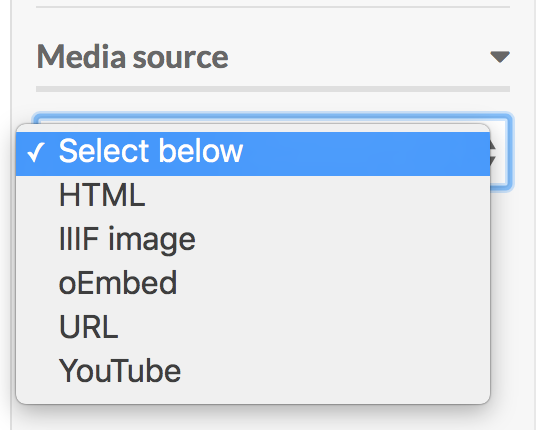
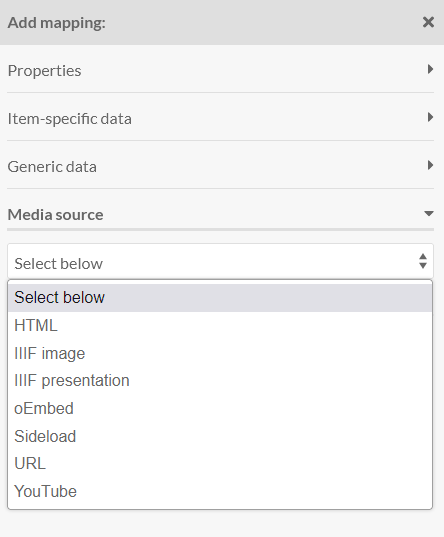
CSV Import

diff --git a/docs/modules/csvimport.md b/docs/modules/csvimport.md
@@ -1,27 +1,27 @@
 # CSV Import
 
-The [CSV Import module](https://omeka.org/s/modules/CSVImport){target=_blank} allows you to import items, item sets, media, and users into your Omeka S install from a CSV (comma-separated values), TSV (tab-separated values), or ODF (open document format) file. This module is only available to [Global Administrator and Supervisor users](../admin/users.md).
+The [CSV Import module](https://omeka.org/s/modules/CSVImport){target=_blank} allows you to import items, item sets, media, and users into your Omeka S install from a CSV (comma-separated values), TSV (tab-separated values), or ODS (OpenDocument Spreadsheet) file. This module is only available to [Global Administrator and Supervisor users](../admin/users.md).
+
+CSV Import requires your Omeka S installation to [have PHP working in order to run background import jobs](..install.md#test-and-set-the-php-path). Before using CSV Import, you should confirm that PHP is being recognized from the [System Information page](../admin-dashboard.md#system-information). 
 
 ## Preparing your CSV file
 
-Most spreadsheet editors (including Microsoft Excel, Google Sheets, and Apple Numbers) can export to CSV format. 
+Most spreadsheet editors (including Microsoft Excel, Google Sheets, and Apple Numbers) can export to CSV, TSV, or ODS format. 
 
 !!! note
 	CSV files for import **must be encoded in UTF-8**, so when exporting or saving a new document, be sure to check that the encoding is UTF-8.
 
-Most import options rely on you only importing one type of data: a list of items, a list of item sets, a list of media, etc. There is the option for a [Mixed resource import](#mixed-resource-import), requiring one column that identifies the type of each row.
+Most CSV Import options rely on you only importing one type of data: a list of items, a list of item sets, a list of media, etc. There is the option for a [mixed-resource import](#mixed-resource-import), requiring one column that identifies the type of each row.
 
-If the spreadsheet is already created, take a moment to think about which columns you want to match to which [vocabulary properties](../content/vocabularies.md). Your CSV file **must have a header row** in order for the module to process it correctly, so you may need to add a row at the top with column names.
+If the spreadsheet is already created, consider which columns you want to match to which [vocabulary properties](../content/vocabularies.md). Your CSV file **must have a header row** in order for the module to process it correctly, so you may need to add a row at the top with column names.
 
-If you have multiple inputs for a single property, you can separate them with a secondary **multivalue separator**. For example, a work with multiple authors (E.B. White and William Strunk Jr.) with the column for Creator containing "E.B. White;William Strunk Jr" has a semicolon (;) as the multivalue separator. When imported into Omeka S, each of these would appear as a separate entry in the property (Creator: "E.B. White" and Creator: "William Strunk Jr."). Note that the import will be the same whether you leave a space after your separator (as in "E.B. White; William Strunk Jr") or not.
+If you have multiple inputs for a single property, you can separate them with a secondary **multivalue separator**. For example, a work with multiple authors (E.B. White and William Strunk Jr.) with the column for Creator containing "E.B. White;William Strunk Jr" has a semicolon (;) as the multivalue separator. When imported into Omeka S, each of these would appear as a separate entry in the property (Creator: "E.B. White" and Creator: "William Strunk Jr."). Note that the import will be the same whether you leave a space after your separator (as in "E.B. White; William Strunk Jr") or not. 
 
 ### Column names
 
 You can manually map each column to its corresponding property, and you are required to manually map non-metadata columns, such as the file URL for upload. The module will automatically map metadata columns by the names provided in the header row, if they conform to the property terms of your installation's [vocabularies](../content/vocabularies.md) in the format `prefix:property`. For example, a CSV file with a column header "dcterms:title" would automap to the Dublin Core Title property when the CSV is loaded for mapping. You can modify these automapped columns before import.
 
-To find the terms you should use for your column headers, go to the Vocabularies tab from the admin dashboard. Click on the number of properties for the vocabulary you want to use (Dublin Core in the image below).
-
-![Red arrow points to the properties link for Dublin Core](../modules/modulesfiles/csv_automap1.png)
+To find the terms you should use for your column headers, go to the Vocabularies tab from the admin dashboard. Click on the number of properties for the vocabulary you want to use (for example, Dublin Core in the image below).
 
 In the table of vocabulary properties, there is a column for **Term**. Use the Term as the column heading for the property you want to automap in CSV Import. For example, "dcterms:abstract" would automap to the Dublin Core property "Abstract" and "foaf:firstName" would automap to the Friend of a Friend property "firstName".
 
@@ -35,10 +35,10 @@ If you have plans to batch-import metadata or properties that come with a module
 
 ## Initial import settings
 
-Start an import by clicking on the CSV Import tab on the left-hand navigation. This will open the initial "Import Settings" page.
+Start an import by clicking on the CSV Import tab on the left-hand navigation. This will open the initial "Import Settings" page. For most spreadsheets directly exported from a software program into the correct format, these settings can be left on their defaults.
 
-- For the Spreadsheet option, use the "Choose File" button to select the file from your computer.
-- From the **CSV column delimiter** dropdown, choose from the following options (this should match the formatting of your file) that separates different values in a row:
+- Use the "Choose File" button to select a spreadsheet from your computer.
+- From the **CSV column delimiter** dropdown, choose from the following options (this should match the formatting of your file) the character that separates different values in a row:
 	- comma (default)
 	- semi-colon
 	- colon
@@ -50,18 +50,18 @@ Start an import by clicking on the CSV Import tab on the left-hand navigation. T
 - From the **CSV column enclosure** dropdown, choose the option that encloses long text in your file, if applicable:
 	- double quote (default)
 	- quote
-	- hash (#).
+	- hash (`#`).
 
 - From the **Import type** dropdown, select what you are importing:
-	- Item Sets
 	- Items
-	- Media (must relate to already existing Items)
-	- Mixed resources (spreadsheet can include Item Sets, Items, and Media)
+	- Item sets
+	- Media (a column matching Media to already existing Items is required)
+	- Mixed resources (spreadsheet can include Item sets, Items, and Media; a column identifying the type of each row is required)
 	- Users.
 
-- Check the box to **Automap with simple labels**. This will automap not only specially formatted column headings but also column headings that match existing vocabulary property labels.
+- Check the box to **Automap with simple labels**. This will automatically map both specially formatted column headings (in `prefix:property`) and any column headings that match existing vocabulary property labels (`property`).
 
-- **Comments** will appear on the "Past Imports" page; you may find this useful to make a note about what is being imported and any settings you have chosen on this page.
+- **Comments** will appear on the "Past Imports" page; you may find this useful to make a note about what is being imported and any settings you have chosen on this page, for example if you are working in batches or may wish to undo an import later.
 
 ![Import settings as described, no entries](../modules/modulesfiles/csvimport_settings.png)
 
@@ -70,7 +70,7 @@ Click the "Next" button to continue with the import process.
 ## Import items
 To import items, select "Items" under the "Import type" on the first page.
 
-When you click next, the page will load with the following tabs:
+When you click "Next", the page will load with the following tabs:
 
 ### Map to Omeka S data
 This tab displays a table with the columns from your spreadsheet as rows. Each row displays:
@@ -79,24 +79,23 @@ This tab displays a table with the columns from your spreadsheet as rows. Each r
 - The column header from the spreadsheet
 - A plus symbol button for adding or modifying a mapping
 - A wrench symbol button for spreadsheet column options
-- A trash can to delete mappings
-- A column to show options selected.
+- A column displaying properties mapped, either automatically or manually
+- A trash can to delete existing mappings
+- A column to show the particular options selected (such as whether to look for multivalue separators, or visibility for that column).
 
-![Mappings for a spreadsheet with ten columns. Some of the columns, such as those named Description and Title have automatically been mapped to Dublin Core properties.](../modules/modulesfiles/csvimport_itemsMap1.png)
+![Mappings for a spreadsheet with ten columns. Some of the columns, such as those named Description and Title, have automatically been mapped to Dublin Core properties.](../modules/modulesfiles/csvimport_itemsMap1.png)
 
 #### Mapping options
 
-To map a column header to a vocabulary property, click on the plus symbol button to the left of the column header. This will open a drawer on the right-hand side of the screen.
-
-![A red arrow points to the plus sign button to the left of the word "title"](../modules/modulesfiles/csvimport_itemsMapButton.png)
+To map a column header to a vocabulary property, click on the plus symbol button. This will open a drawer on the right-hand side of the screen.
 
 The drawer has multiple options for mapping:
 
-**Properties** select a property to map the column data to, from any of the installed vocabularies. Use the Filter field to search the available properties for a specific property.
+**Properties** allows you to select a property to map the column data to, from any of the installed vocabularies. Use the "Filter" field to search for a specific property.
 
-![Properties option open showing all of the installed vocabularies for the Omeka S installation: Dublin Core, Bibliographic Ontology, Friend of a Friend, Scripto and OWL-Time Ontology.](../modules/modulesfiles/csvimport_itemsMapProp.png)
+![Properties option open, showing all of the installed vocabularies for the Omeka S installation: Dublin Core, Bibliographic Ontology, Friend of a Friend, Scripto and OWL-Time Ontology.](../modules/modulesfiles/csvimport_itemsMapProp.png)
 
-**Item-specific data** has a dropdown to set Item Set by selected property. If you have a column with data for an Item Set to which you want to add the item, you can set how it maps using this dropdown. You can either use the Item Set's internal ID, or any one of its properties (title, description).
+**Item-specific data** has a dropdown to set Item set by selected property. If you have a column identifying an Item set to which you want to add each item (rather than putting all of the imported items into the same Item sets on the "Basic Settings" tab), you can set how it maps using this dropdown. You can either use the Item set's internal ID, or any one of its properties (such as title).
 
 ![dropdown as described](../modules/modulesfiles/csvimport_itemsMapISD.png)
 
@@ -109,15 +108,16 @@ The drawer has multiple options for mapping:
 
 ![Dropdown as described](../modules/modulesfiles/csvimport_itemsMapgeneric.png)
 
-**Media source** If the column in your spreadsheet is a media source, select which kind from the dropdown:
+**Media source** allows you to import [media](../content/media.md#add-media-to-an-item) along with your items, by selecting the sourcing method from the dropdown:
 
 - HTML
-- IIIF Image (link)
+- IIIF image (link)
+- IIIF presentation (link)
 - oEmbed (link)
 - URL
 - YouTube (link).
 
-![Dropdown as described](../modules/modulesfiles/csvimport_itemsMapMedia.png)
+Other options may appear here based on your active modules, such as File Sideload. 
 
 Be sure to click the "Apply Changes" at the bottom of the drawer or nothing you set here will be kept.
 
